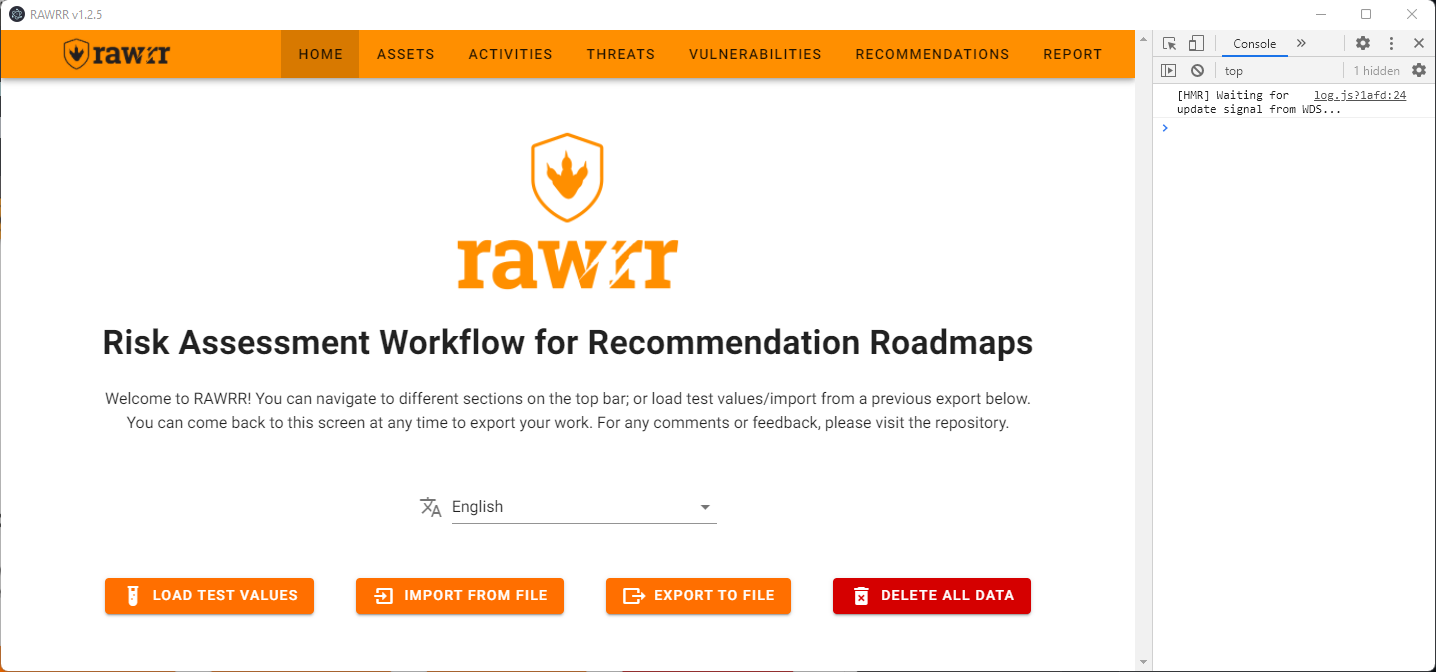
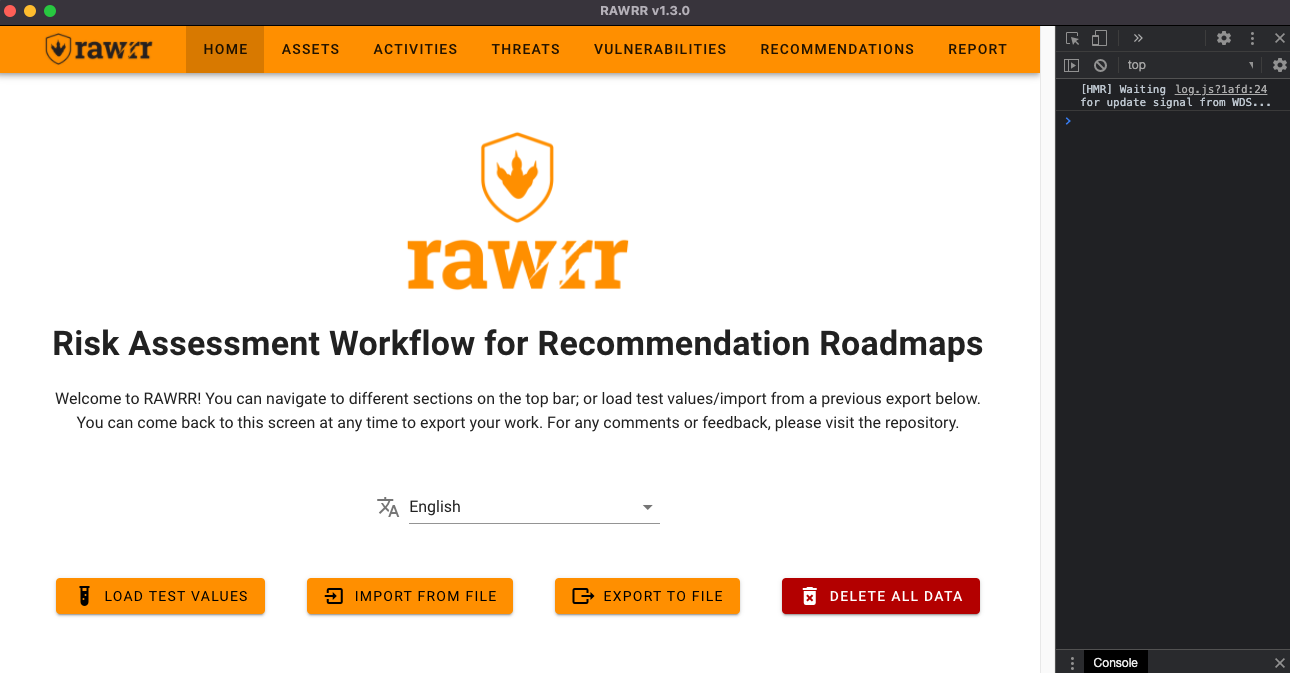
Modified RAWRR version

diff --git a/public/index.html b/public/index.html
@@ -5,12 +5,12 @@
     <meta http-equiv="X-UA-Compatible" content="IE=edge" />
     <meta name="viewport" content="width=device-width,initial-scale=1.0" />
     <link rel="icon" href="<%= BASE_URL %>favicon.ico" />
-    <title>RAWRR v1.2.5</title>
+    <title>RAWRR v1.3.0</title>
   </head>
   <body>
     <noscript>
       <strong
-        >We're sorry, but RAWRR V1.2.5 doesn't work properly without JavaScript
+        >We're sorry, but RAWRR V1.3.0 doesn't work properly without JavaScript
         enabled. Please enable it to continue.</strong
       >
     </noscript>
